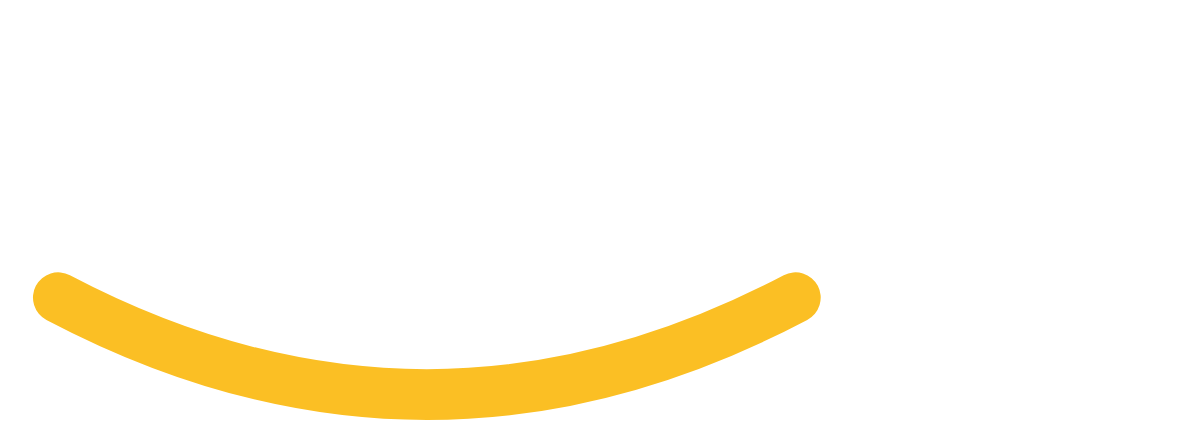
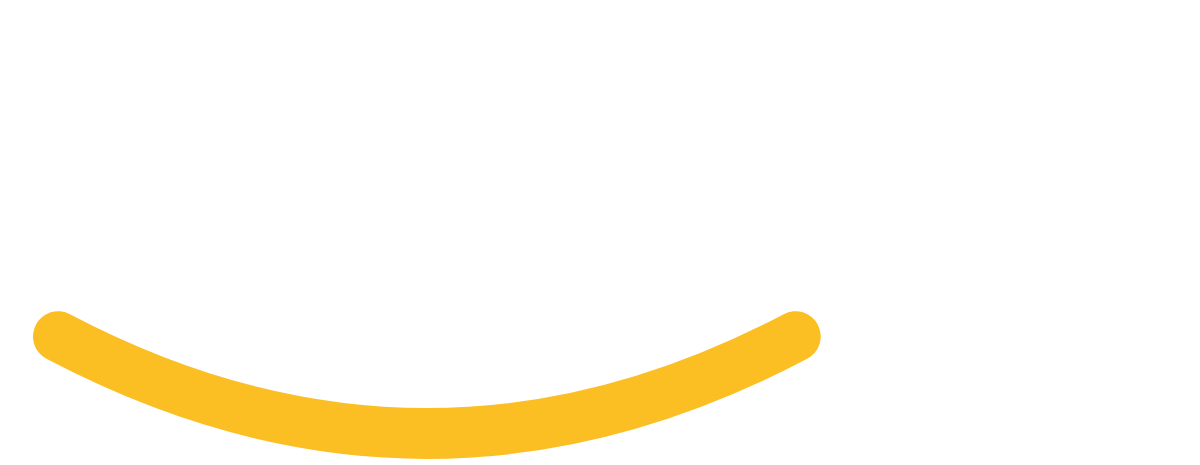
feat(branding): more breathing room between wordmark and smile
Smile arc drops 12 units below the letters across wordmarks, app icons,
splash and admin logos. Login, staff login and splash wordmark boxes grow
to match the taller artwork so the logo keeps its width.

diff --git a/apps/mobile/app/(auth)/staff-login.tsx b/apps/mobile/app/(auth)/staff-login.tsx
@@ -114,7 +114,7 @@ const styles = StyleSheet.create({
   container: { flex: 1, backgroundColor: colors.background },
   inner: { flexGrow: 1, justifyContent: "center", padding: spacing.lg },
   logoSection: { alignItems: "center", marginBottom: 32 },
-  wordmark: { width: 160, height: 56 },
+  wordmark: { width: 160, height: 62 },
   badge: {
     flexDirection: "row", alignItems: "center", gap: 6, marginTop: 6,
     paddingHorizontal: 10, height: 26, borderRadius: 13, backgroundColor: "#f0fdfa",

diff --git a/apps/mobile/app/(auth)/login.tsx b/apps/mobile/app/(auth)/login.tsx
@@ -257,7 +257,7 @@ const styles = StyleSheet.create({
 
   // Logo
   logoSection: { alignItems: "center", marginBottom: 40 },
-  wordmark: { width: 180, height: 64 },
+  wordmark: { width: 180, height: 70 },
   subtitle: { fontSize: fontSize.lg, color: colors.textSecondary, marginTop: 4 },
 
   // Steps

diff --git a/apps/mobile/components/SplashScreen.tsx b/apps/mobile/components/SplashScreen.tsx
@@ -86,7 +86,7 @@ const styles = StyleSheet.create({
   },
   wordmark: {
     width: 200,
-    height: 71,
+    height: 77,
   },
   subtitle: {
     fontSize: 17,
